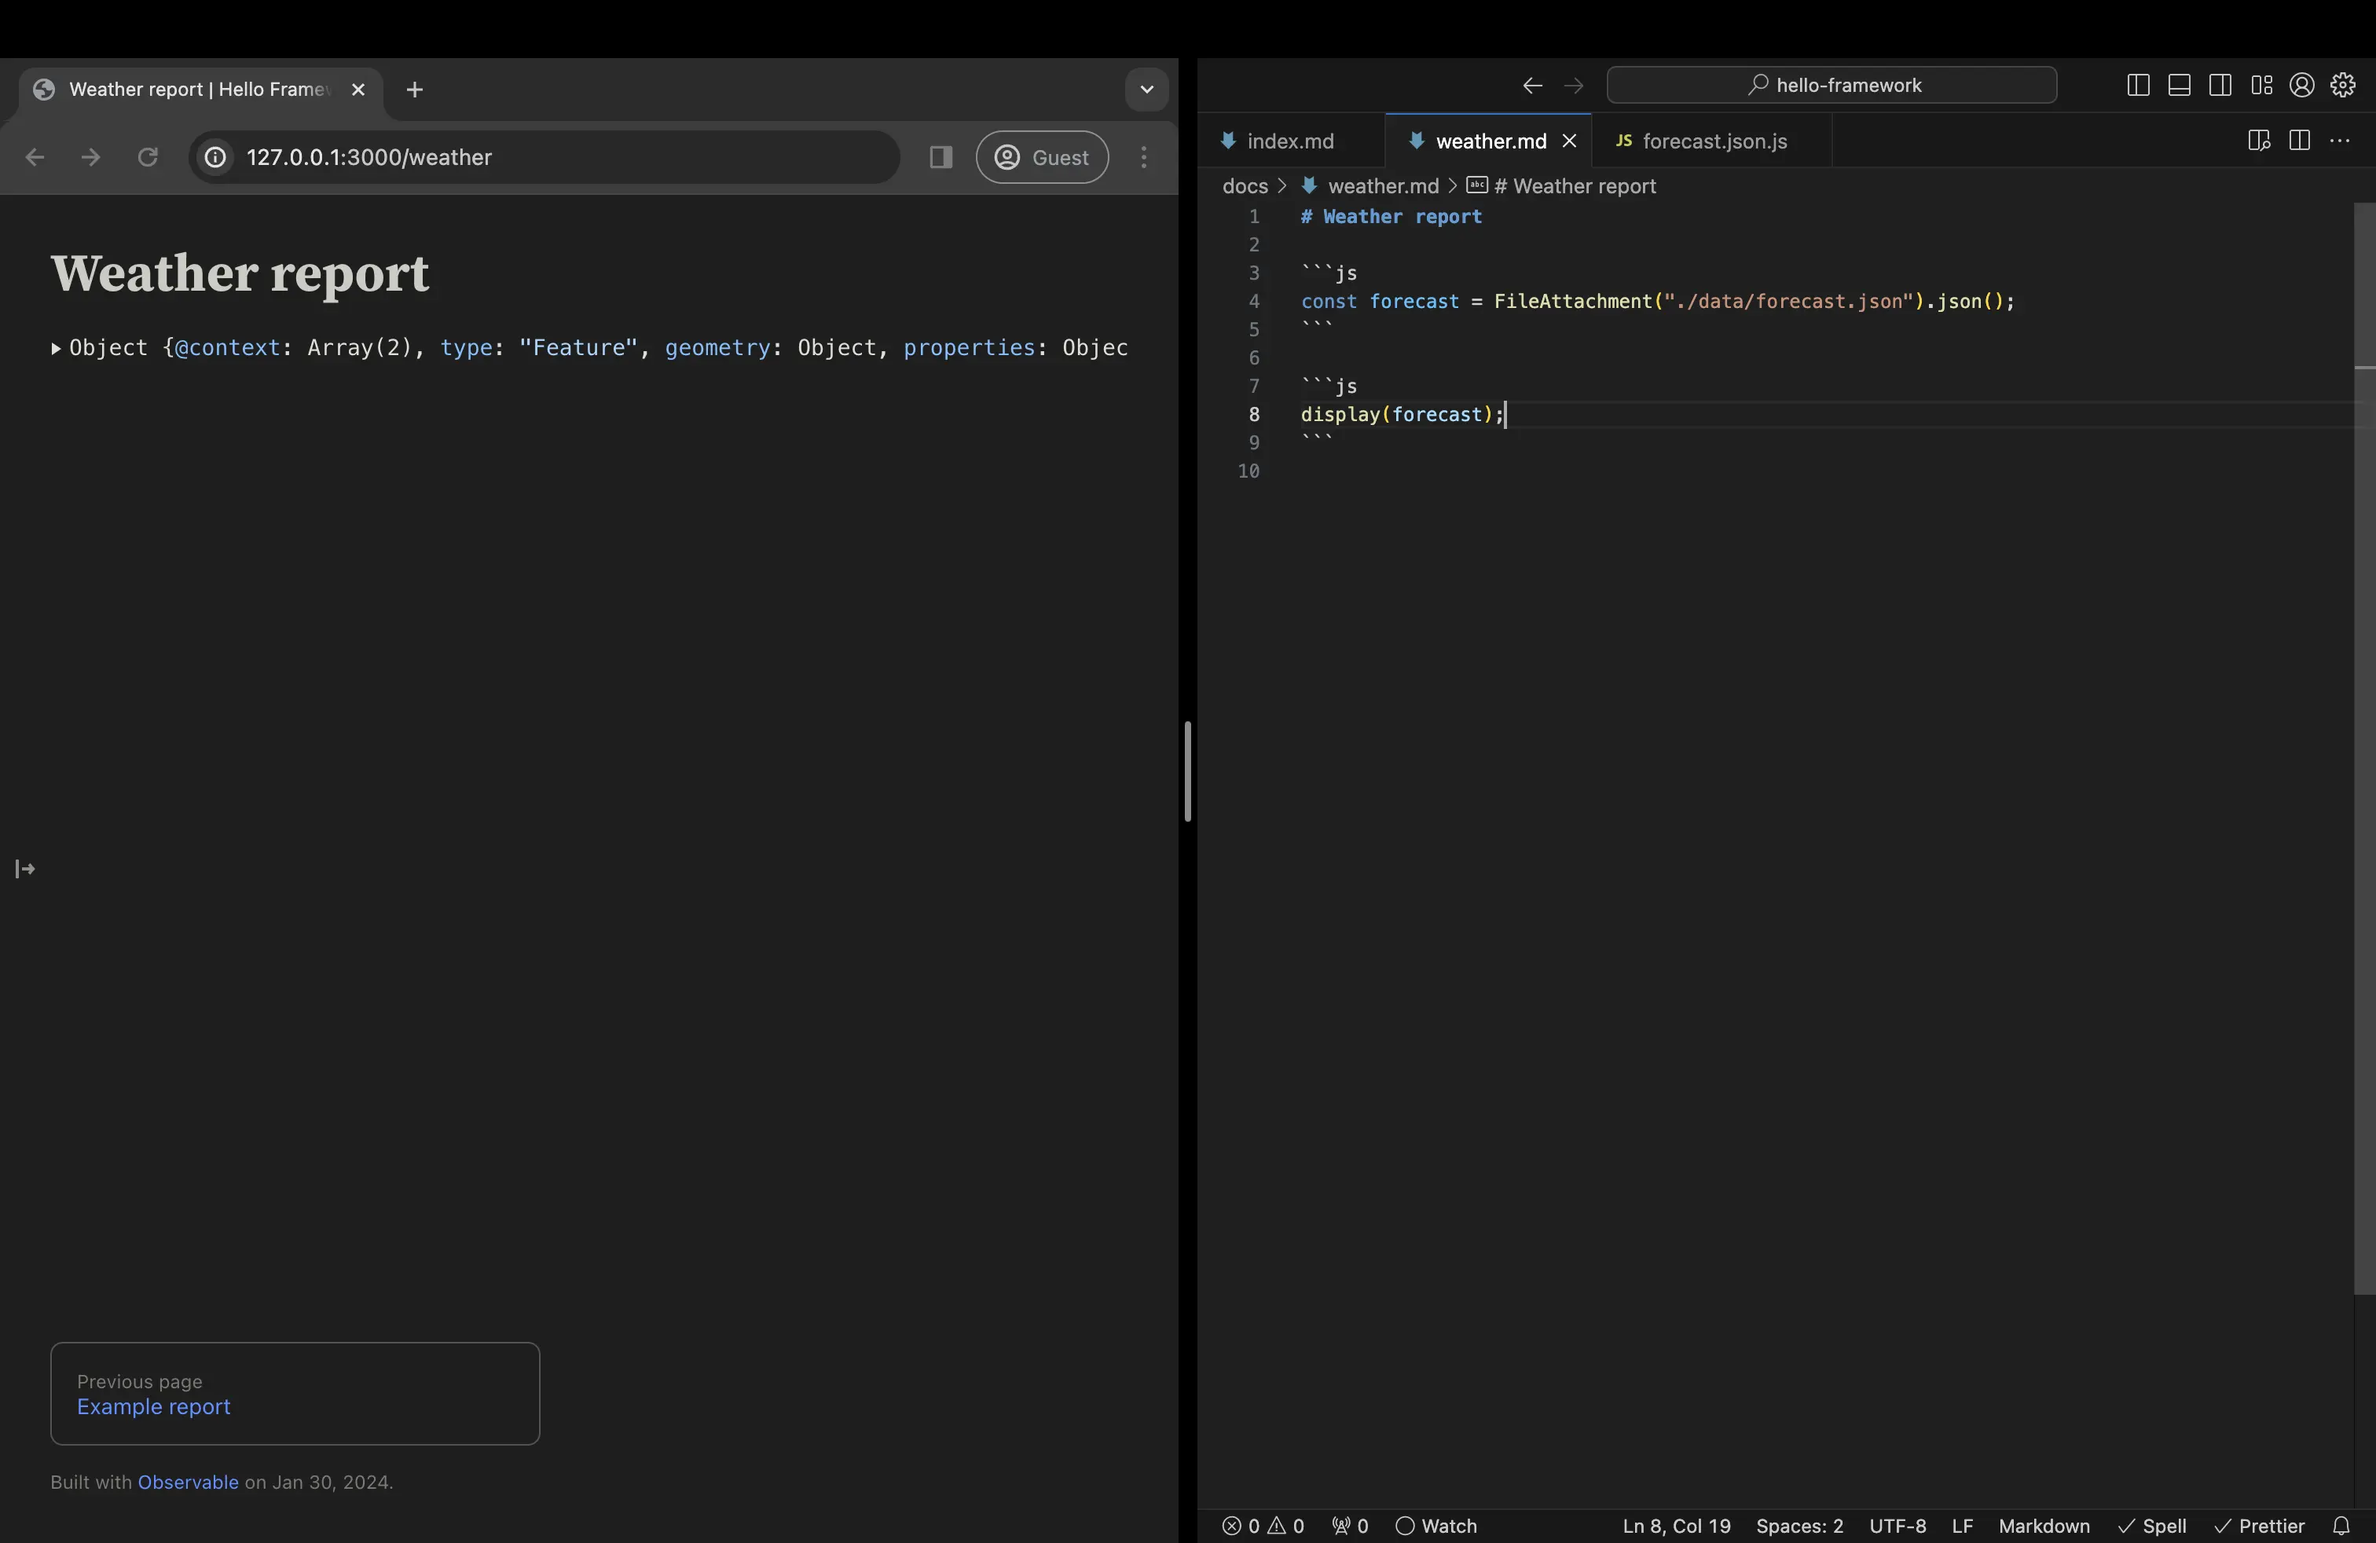
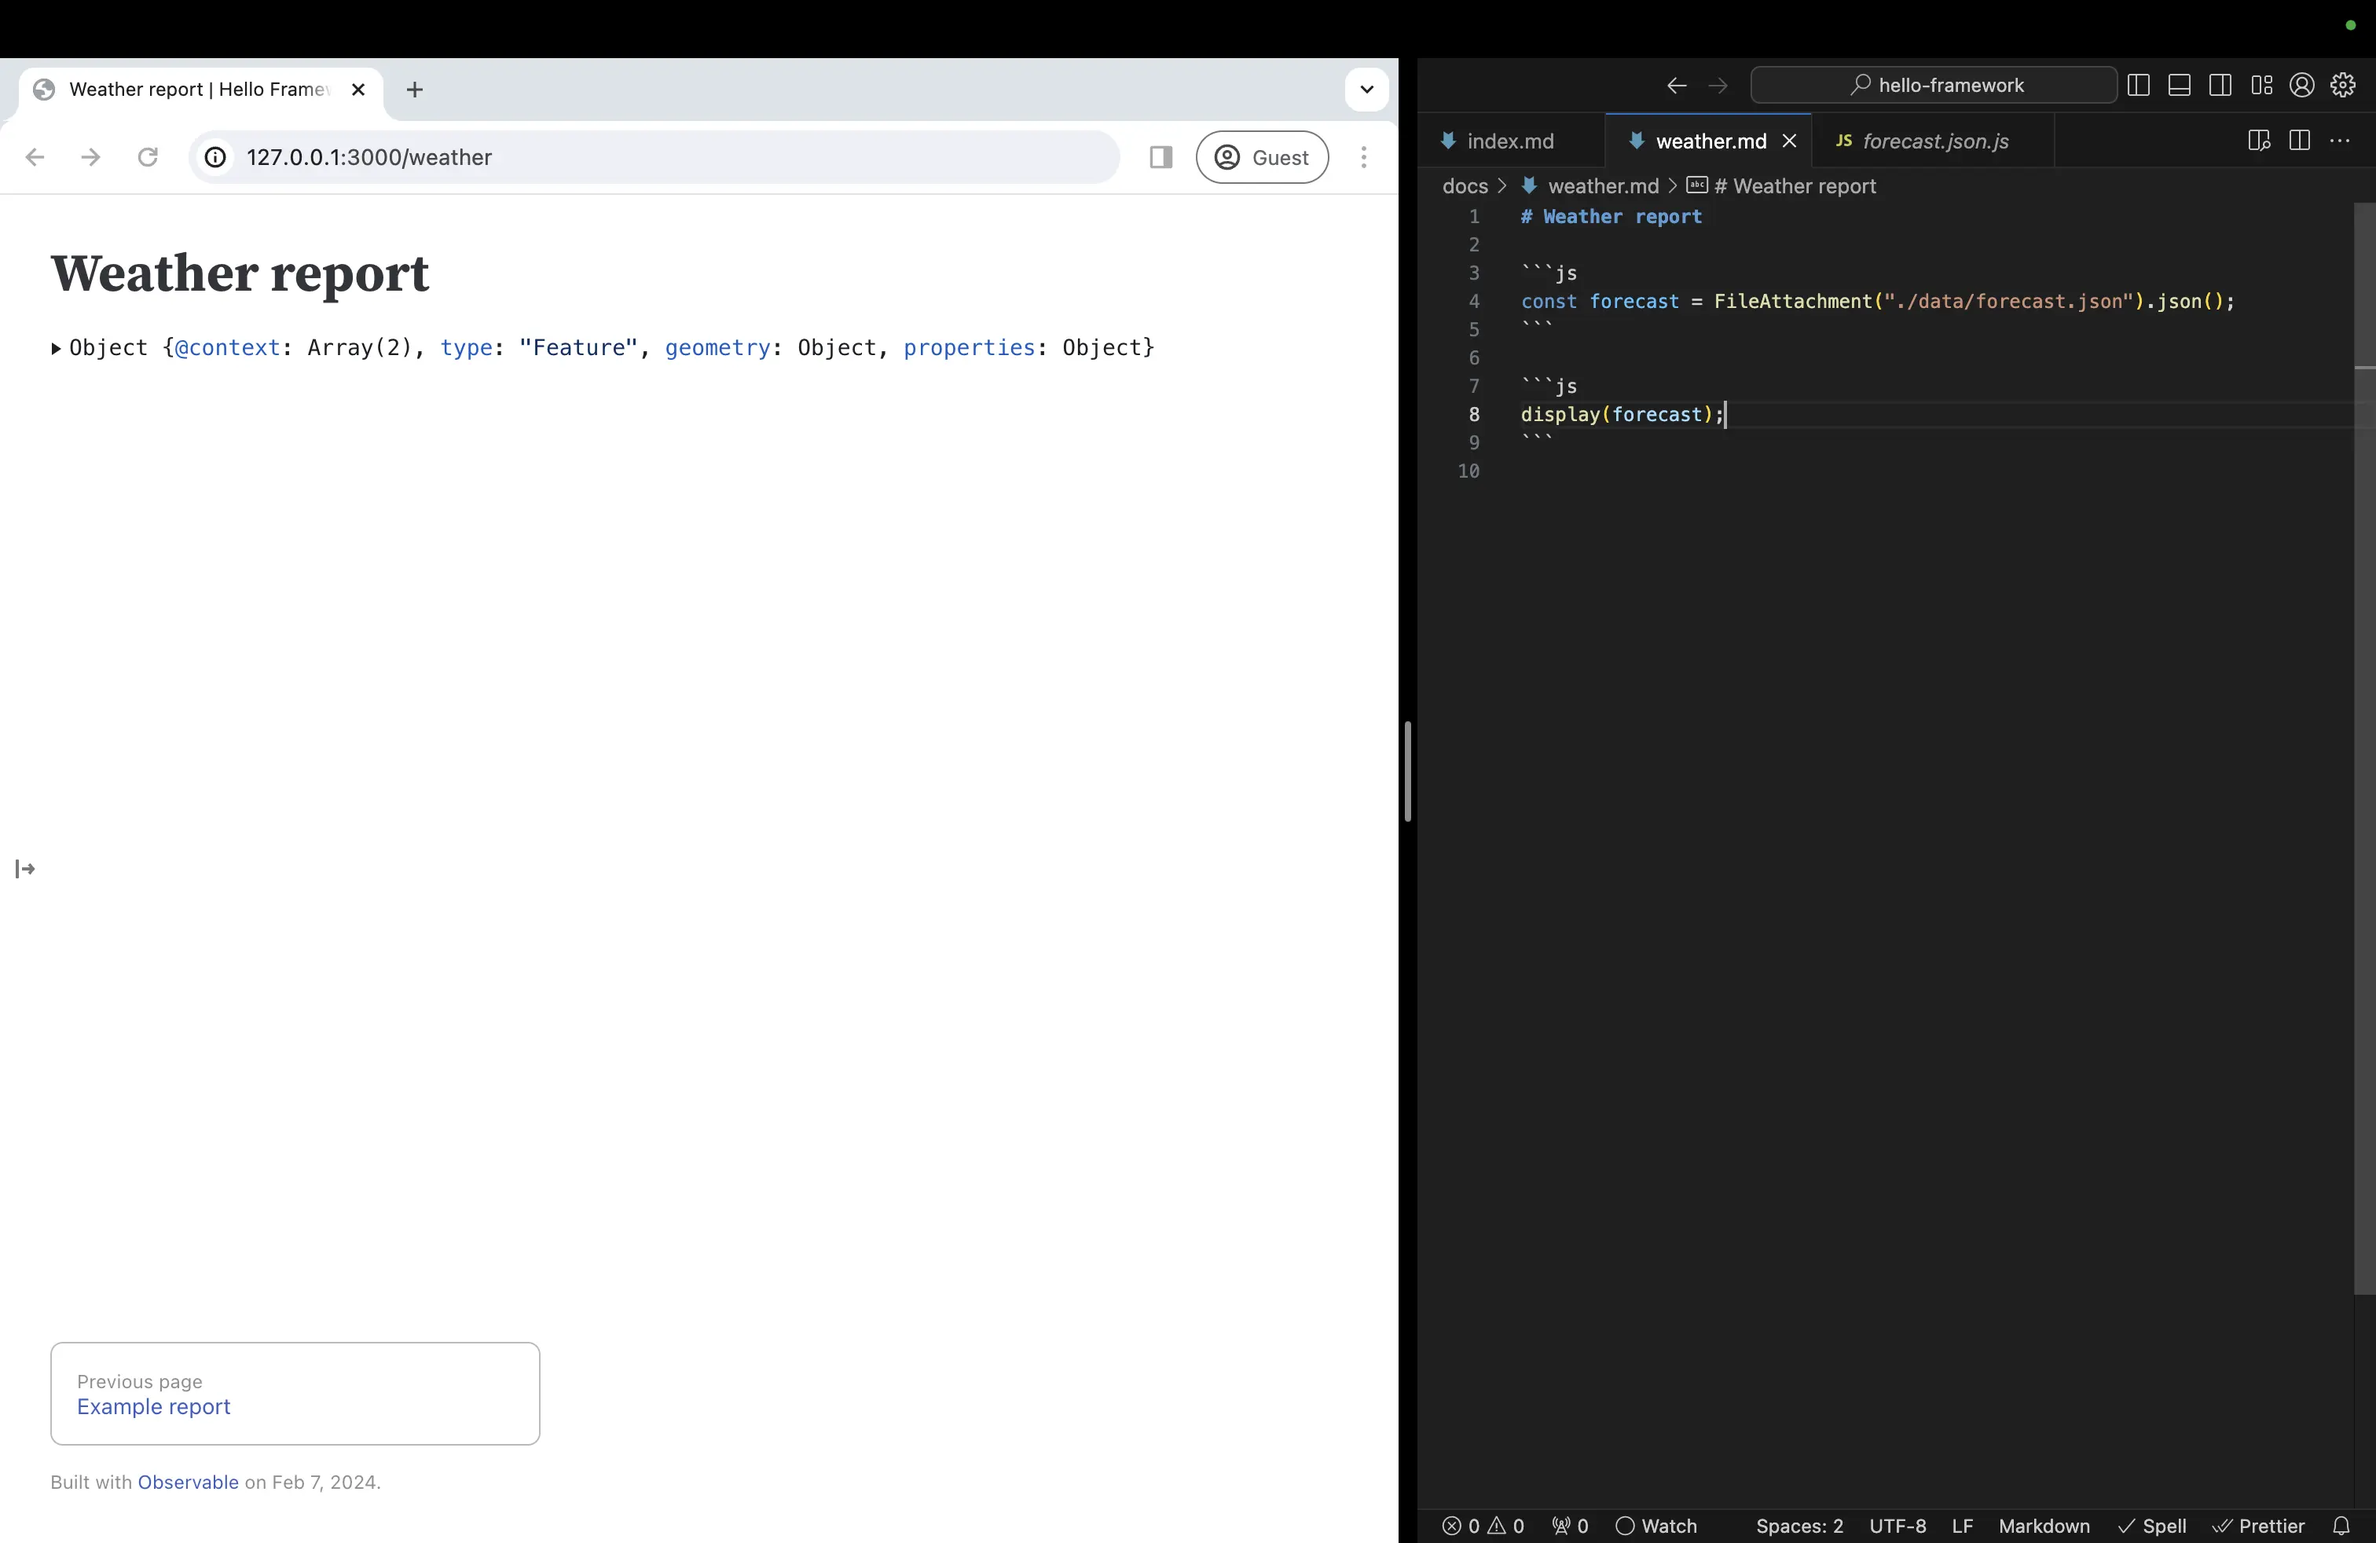
responsive screenshots

diff --git a/docs/getting-started.md b/docs/getting-started.md
@@ -11,10 +11,9 @@
 
 .crop {
   border-radius: 8px;
-  border: solid 1px #333;
   margin: 1rem;
   max-width: calc(100% - 2rem);
-  box-shadow: 0 6px 12px 6px rgba(0, 0, 0, 0.4);
+  box-shadow: 0 0 0 0.75px rgba(128, 128, 128, 0.2), 0 6px 12px 6px rgba(0, 0, 0, 0.4);
   aspect-ratio: 3024 / 1888;
   object-fit: cover;
   object-position: 0 100%;
@@ -231,7 +230,10 @@ You should see something like this:
 Now visit <http://127.0.0.1:3000> in your browser, which should look like:
 
 <figure class="wide">
-  <img loading="lazy" src="./getting-started/hello-framework.webp" style="aspect-ratio: 3248 / 2112;">
+  <picture>
+    <source srcset="./getting-started/hello-framework-dark.webp" media="(prefers-color-scheme: dark)">
+    <img loading="lazy" src="./getting-started/hello-framework.webp" style="aspect-ratio: 3248 / 2112;">
+  </picture>
   <figcaption>The default home page (<code>docs/index.md</code>) after creating a new project.</figcaption>
 </figure>
 
@@ -242,7 +244,10 @@ Live preview means that as you save changes, your in-browser preview updates ins
 To experience live preview, open <code>docs/index.md</code> in your preferred text editor — below we show Visual Studio Code — and position your browser window so that you can see your editor and browser side-by-side. If you then replace the text “Hello, Observable Framework” with “Hi, Mom!” and save, you should see:
 
 <figure class="wide">
-  <img loading="lazy" src="./getting-started/hi-mom.webp" class="crop">
+  <picture>
+    <source srcset="./getting-started/hi-mom-dark.webp" media="(prefers-color-scheme: dark)">
+    <img loading="lazy" src="./getting-started/hi-mom.webp" class="crop">
+  </picture>
   <figcaption>No seriously — hi, Mom! Thanks for supporting me all these years.</figcaption>
 </figure>
 
@@ -265,7 +270,10 @@ To see the new page in the sidebar, you must restart the preview server. In the 
 If you click on the **Weather report** link in the sidebar, it’ll take you to <http://127.0.0.1:3000/weather>, where you should see:
 
 <figure class="wide">
-  <img loading="lazy" src="./getting-started/hello-weather.webp" class="crop">
+  <picture>
+    <source srcset="./getting-started/hello-weather-dark.webp" media="(prefers-color-scheme: dark)">
+    <img loading="lazy" src="./getting-started/hello-weather.webp" class="crop">
+  </picture>
   <figcaption>The humble beginnings of a local weather dashboard.</figcaption>
 </figure>
 
@@ -366,7 +374,10 @@ display(forecast);
 This looks like:
 
 <figure class="wide">
-  <img loading="lazy" src="./getting-started/hello-data.webp" class="crop">
+  <picture>
+    <source srcset="./getting-started/hello-data-dark.webp" media="(prefers-color-scheme: dark)">
+    <img loading="lazy" src="./getting-started/hello-data.webp" class="crop">
+  </picture>
   <figcaption>Using <code>FileAttachment</code> to load data.</figcaption>
 </figure>
 
@@ -423,7 +434,10 @@ Plot.plot({
 You should now see:
 
 <figure class="wide">
-  <img loading="lazy" src="./getting-started/hello-plot.webp" class="crop">
+  <picture>
+    <source srcset="./getting-started/hello-plot-dark.webp" media="(prefers-color-scheme: dark)">
+    <img loading="lazy" src="./getting-started/hello-plot.webp" class="crop">
+  </picture>
   <figcaption>Using <code>Plot</code> to make a chart.</figcaption>
 </figure>
 
@@ -502,7 +516,10 @@ toc: false
 ```
 
 <figure class="wide">
-  <img loading="lazy" src="./getting-started/hello-grid.webp" class="crop">
+  <picture>
+    <source srcset="./getting-started/hello-grid-dark.webp" media="(prefers-color-scheme: dark)">
+    <img loading="lazy" src="./getting-started/hello-grid.webp" class="crop">
+  </picture>
   <figcaption>Adopting a grid layout and the <code>dashboard</code> theme.</figcaption>
 </figure>
 
